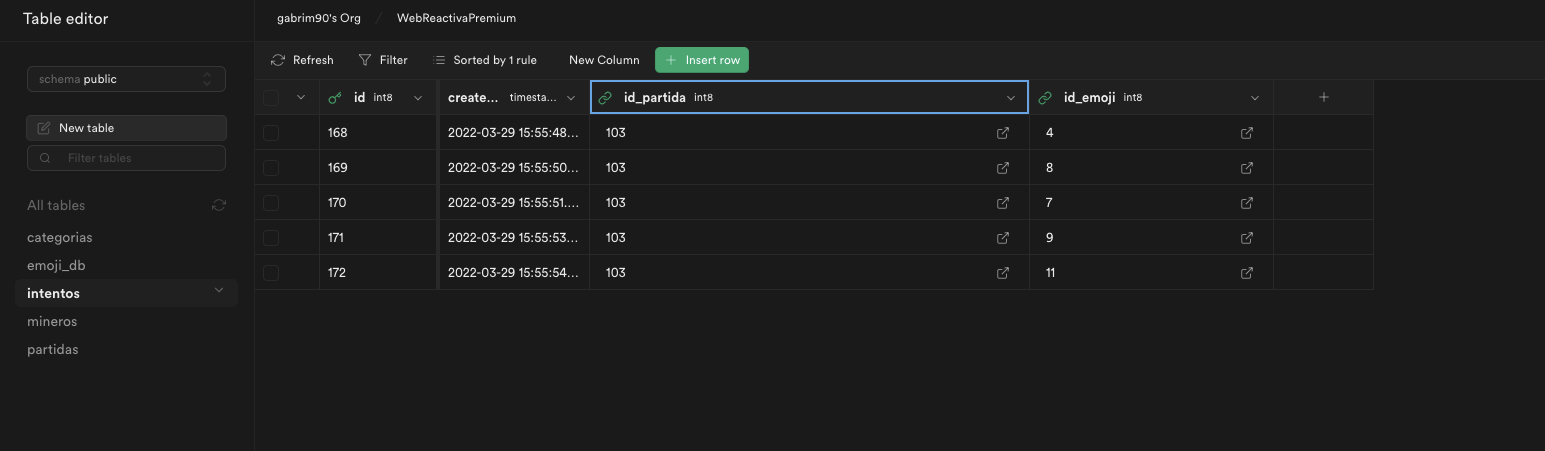
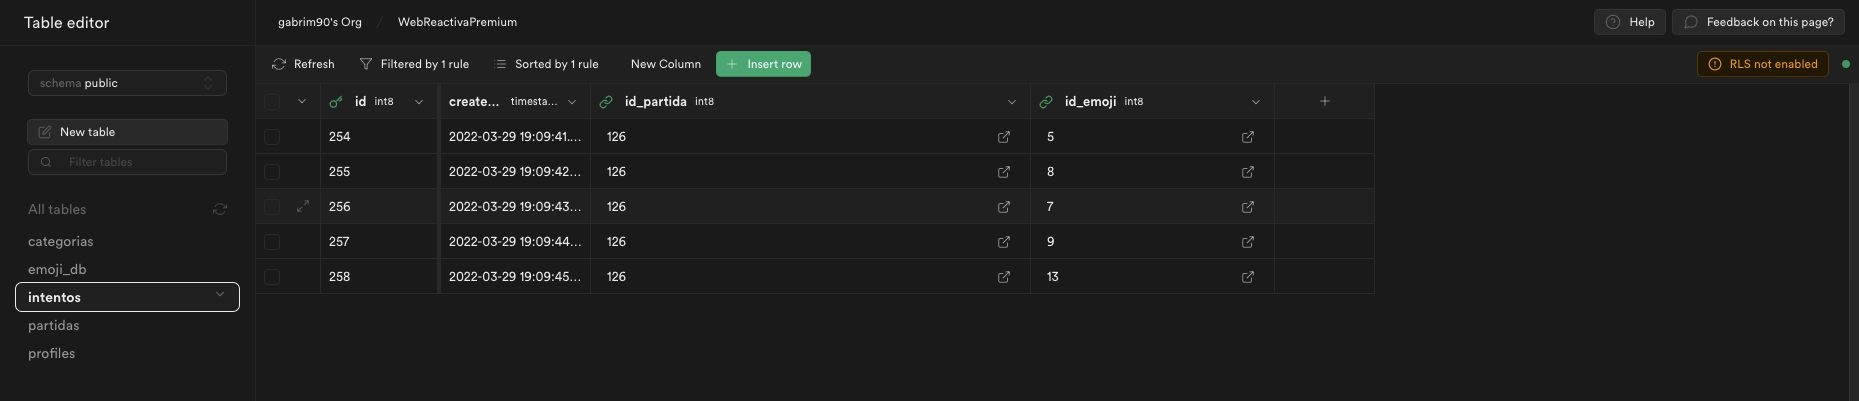
Actualizo la documentación

diff --git a/README.md b/README.md
@@ -4,13 +4,14 @@
 - [Detalle de la aplicación](#detalle-de-la-aplicación)
   - [Estructura del Backend](#estructura-del-backend)
     - [Tablas](#tablas)
-      - [Mineros](#mineros)
       - [Partidas](#partidas)
       - [Categorias](#categorias)
       - [Emoji_db](#emoji_db)
       - [Intentos](#intentos)
+      - [Gestión de usuarios](#gestión-de-usuarios)
   - [Frontend](#frontend)
     - [Login](#login)
+    - [Pantalla inicio](#pantalla-inicio)
     - [Itinerario](#itinerario)
     - [Final](#final)
 # Backend de la suerte
@@ -27,8 +28,7 @@ Los items que se muestran en cada nivel de profundidad (cada vez que se pica) so
 Cada vez que se pica se comprueba el número de registros almacenados y se comprueba si se ha llegado al máximo de la partida.
 
 # Respuestas al desafío
-Todo comienza con el registro de un nuevo **minero**, simplemente se recogen sus datos (usuario/contraseña) para registrarlo en la tabla de 
-[Mineros](#mineros) y así obtener la **id** para ese minero.
+Todo comienza con el registro de un nuevo **minero**, simplemente se recogen sus datos (usuario/contraseña) para registrarlo como usuario en la plataforma y así obtener la **id** para ese minero.
 
 Seguidamente con la **id** del minero se genera una nueva partida. La tabla [Partidas](#partidas) es la que guarda la configuración global de las partidas. En cada **registro** que se añade a la partida hay una **serie de valores de configuración por defecto**, como el número **máximo de items a picar**, la categoría final... etc. 
 
@@ -38,9 +38,11 @@ Cada vez que se pica se registra en la tabla [Intentos](#intentos) asociados a l
 - Se registra el **timestamp** del instante en el que se ha picado. 
 - Se va comprobando el número de registros para esa partida cada vez que se pica con los predefinidos en la configuración de la partida (tabla [Partidas](#partidas)).
 
+Una vez que se llega al final, se muestra el resumen de la partida, con los items elegidos y la opción de volver a empezar.
+
 ## Desarrollo de la "partida"
 El transcurso de la partida es el siguiente:
-1. Se registra el minero
+1. Se registra o inica sesión el minero
 2. Se inicializa la partida. Se crean los valores de configuración, como por ejemplo el nivel máximo que se picará, o la categoría de items inicial. Estos valores son los valores por defecto para la columna dentro de la tabla [Partidas](#partidas).
 3. El minero va eligiendo items en distintos niveles de profundidad. Cada nivel de profundidad es una **categoria** que tiene asociada una serie de items (emojis). La configuración de la partidad define cual es la categoría inicial. 
 4. El minero "pica" (elige) cada uno de los items, de tal forma que va pasando de categoría, como si fueran niveles de profundidad. 
@@ -48,6 +50,7 @@ El transcurso de la partida es el siguiente:
 6. Se comprueba si el número de intentos registrados coincide con el número de intentos máximo para la partida. Si no coincide se busca la siguiente categoría. 
 7. Se vuelve a repetir el proceso (paso 3) hasta que se llega a la categoría final. 
 8. Una vez que se ha llegado al máximo número de intentos se muestra la recompensa y se recoge el itinerario seguido a través de los intentos ordenados, por defecto ya vienen ordenados por id, lo cual representa también el orden cronológico. 
+9. Se puede volver a empezar la partida.
 
 # Detalle de la aplicación
 
@@ -56,18 +59,7 @@ Para este segundo reto he realizado ya un backend más completo con varias tabla
 
 ### Tablas
 
-#### Mineros
-Los mineros se registran en la tabla de mineros. Las contraseñas se guardan en plano. 
-La estructura es la siguiente:
 
-| campo | tipo | Descripción |
-| ------------- | ------------- | ------------- |
-| id  | bigint | Id |
-| created_at  | timestamp with time zone | Timestamp del registro |
-| userName  | text | Nombre de usuario |
-| userPassword  | text | Contraseña del usuario  |
-
-![Tabla mineros](doc/imgs/tabla-mineros.png)
 
 #### Partidas
 
@@ -83,6 +75,7 @@ Tabla que define los valores de una partida determinada. Define los valores para
 | maxAttempts  | int | Número de intentos para la partida. El valor por defecto de esta columna define el número de veces a picar. |
 | id_categoriaInicial  | bigint | **FK**. Categoría (listado de emojis) inicial  |
 | id_categoriafinal  | bigint | **FK**. Categoría (listado de emojis) final. Se usa el valor por defecto. |
+| id_user  | bigint | **FK**. UUID del usuario. |
   
 ![Tabla partidas](doc/imgs/tabla-partidas.png)
 
@@ -127,6 +120,12 @@ Aquí se registra cada vez que un minero pica un Item. Se guarda la relación co
 
 ![Tabla intentos](doc/imgs/tabla-intentos.png)
 
+#### Gestión de usuarios
+
+Los usuarios se registran en la plataforma **Supabase** utilizando la API que tiene para ello. Simplemente se crea un usuario mediante un email.
+
+![Usuarios](doc/imgs/usuarios.png)
+
 
 ## Frontend
 
@@ -134,8 +133,12 @@ Aquí se registra cada vez que un minero pica un Item. Se guarda la relación co
 Pantalla de login donde se registra el minero:
 ![Login](doc/imgs/frontend-login.png)
 
+### Pantalla inicio
+Antes de empezar a picar y tras el login/registro vemos la siguiente pantalla:
+![Itinerario](doc/imgs/frontend-inicio.png)
+
 ### Itinerario
-Cada capa del itinerario se muestra así:
+Cada categoría del itinerario se muestra así:
 ![Itinerario](doc/imgs/frontend-itinerario.png)
 ### Final
 Pantalla de final donde se muestra la recompensa y el resumen del camino seguido:
